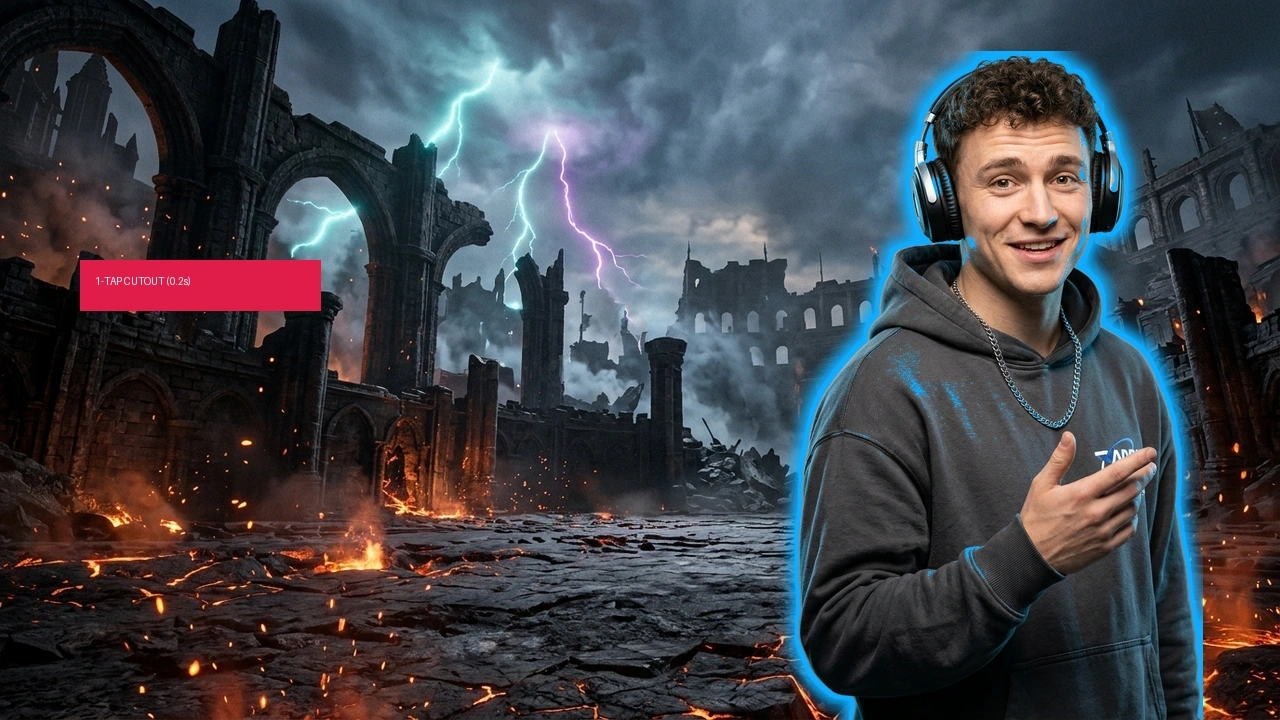
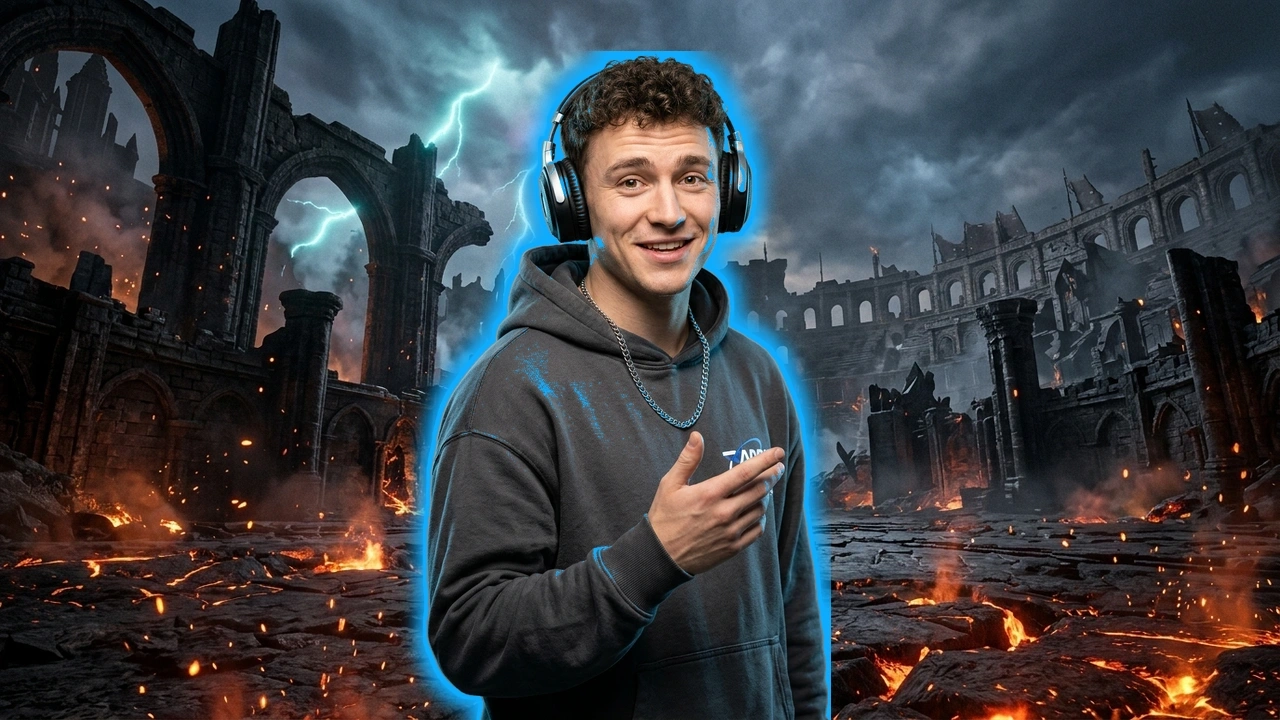
fix(slider): center creator directly under 50% slider split and implement pointer capture with drag-prevention

diff --git a/assets/js/main.js b/assets/js/main.js
@@ -409,6 +409,7 @@ function initThumbnailStudio() {
 
 /**
  * Draggable Before / After Cutout Comparison Slider.
+ * Unified Pointer Events API with pointer capture for unbreakable, smooth dragging on mouse and touch.
  */
 function initCompareSlider() {
   const sliders = document.querySelectorAll('.compare-slider-wrap');
@@ -424,7 +425,7 @@ function initCompareSlider() {
     function updateSlider(clientX) {
       const rect = slider.getBoundingClientRect();
       const rawPos = (clientX - rect.left) / rect.width;
-      const clamped = Math.max(0.05, Math.min(0.95, rawPos));
+      const clamped = Math.max(0.02, Math.min(0.98, rawPos));
       const percentage = (clamped * 100).toFixed(2);
 
       afterWrap.style.width = `${percentage}%`;
@@ -433,30 +434,37 @@ function initCompareSlider() {
       slider.setAttribute('aria-valuenow', String(Math.round(clamped * 100)));
     }
 
-    function onPointerDown(e) {
+    // Modern Unified Pointer Events with setPointerCapture
+    slider.addEventListener('pointerdown', (e) => {
       isDragging = true;
-      const clientX = e.clientX || (e.touches && e.touches[0] ? e.touches[0].clientX : 0);
-      updateSlider(clientX);
-    }
+      try {
+        slider.setPointerCapture(e.pointerId);
+      } catch (err) {
+        // Fallback for environments where pointer capture isn't supported
+      }
+      updateSlider(e.clientX);
+    });
 
-    function onPointerMove(e) {
+    slider.addEventListener('pointermove', (e) => {
       if (!isDragging) return;
-      const clientX = e.clientX || (e.touches && e.touches[0] ? e.touches[0].clientX : 0);
-      updateSlider(clientX);
+      updateSlider(e.clientX);
+    });
+
+    function endDrag(e) {
+      if (isDragging) {
+        isDragging = false;
+        try {
+          if (e && e.pointerId && slider.hasPointerCapture(e.pointerId)) {
+            slider.releasePointerCapture(e.pointerId);
+          }
+        } catch (err) {}
+      }
     }
 
-    function onPointerUp() {
-      isDragging = false;
-    }
+    slider.addEventListener('pointerup', endDrag);
+    slider.addEventListener('pointercancel', endDrag);
 
-    slider.addEventListener('mousedown', onPointerDown);
-    window.addEventListener('mousemove', onPointerMove);
-    window.addEventListener('mouseup', onPointerUp);
-
-    slider.addEventListener('touchstart', onPointerDown, { passive: true });
-    window.addEventListener('touchmove', onPointerMove, { passive: true });
-    window.addEventListener('touchend', onPointerUp, { passive: true });
-
+    // Keyboard support
     slider.addEventListener('keydown', (e) => {
       const currentVal = parseFloat(slider.getAttribute('aria-valuenow') || '50');
       let newVal = currentVal;

diff --git a/index.html b/index.html
@@ -26,7 +26,7 @@
   <link rel="apple-touch-icon" href="/assets/images/app-icon.png">
   
   <!-- Stylesheet -->
-  <link rel="stylesheet" href="/assets/css/styles.css?v=2.5">
+  <link rel="stylesheet" href="/assets/css/styles.css?v=2.6">
   
   <!-- Structured Data: WebSite Schema -->
   <script type="application/ld+json">
@@ -706,21 +706,23 @@
 
             <div class="compare-slider-wrap" role="slider" aria-label="Interactive before and after cutout comparison" aria-valuenow="50" aria-valuemin="5" aria-valuemax="95" tabindex="0">
               <!-- Background Image: After -->
-              <img src="/assets/images/cutout-slider-after.webp?v=real-hd" 
+              <img src="/assets/images/cutout-slider-after.webp?v=centered-cutout-1" 
                    alt="After: Clean cutout composited onto a high-contrast thumbnail background" 
                    class="compare-img compare-before" 
                    width="800" 
                    height="450" 
-                   loading="lazy">
+                   loading="lazy"
+                   draggable="false">
 
               <!-- Foreground Overlaid Image: Before -->
               <div class="compare-after-wrap">
-                <img src="/assets/images/cutout-slider-before.webp?v=real-hd" 
+                <img src="/assets/images/cutout-slider-before.webp?v=centered-cutout-1" 
                      alt="Before: Original photo with studio room background" 
                      class="compare-img" 
                      width="800" 
                      height="450" 
-                     loading="lazy">
+                     loading="lazy"
+                     draggable="false">
                 <span class="compare-label compare-label--after">BEFORE: ORIGINAL</span>
               </div>
 

diff --git a/assets/css/styles.css b/assets/css/styles.css
@@ -1688,6 +1688,8 @@ body:not(:has(.ark-hero)) .mobile-toggle,
   box-shadow: var(--shadow-md);
   cursor: ew-resize;
   user-select: none;
+  -webkit-user-select: none;
+  touch-action: pan-y;
   margin-bottom: 1rem;
 }
 
@@ -1696,6 +1698,10 @@ body:not(:has(.ark-hero)) .mobile-toggle,
   height: 100%;
   object-fit: cover;
   display: block;
+  user-select: none;
+  -webkit-user-select: none;
+  -webkit-user-drag: none;
+  pointer-events: none;
 }
 
 .compare-after-wrap {
@@ -1714,6 +1720,10 @@ body:not(:has(.ark-hero)) .mobile-toggle,
   height: 100%;
   object-fit: cover;
   display: block;
+  user-select: none;
+  -webkit-user-select: none;
+  -webkit-user-drag: none;
+  pointer-events: none;
 }
 
 .compare-handle {
